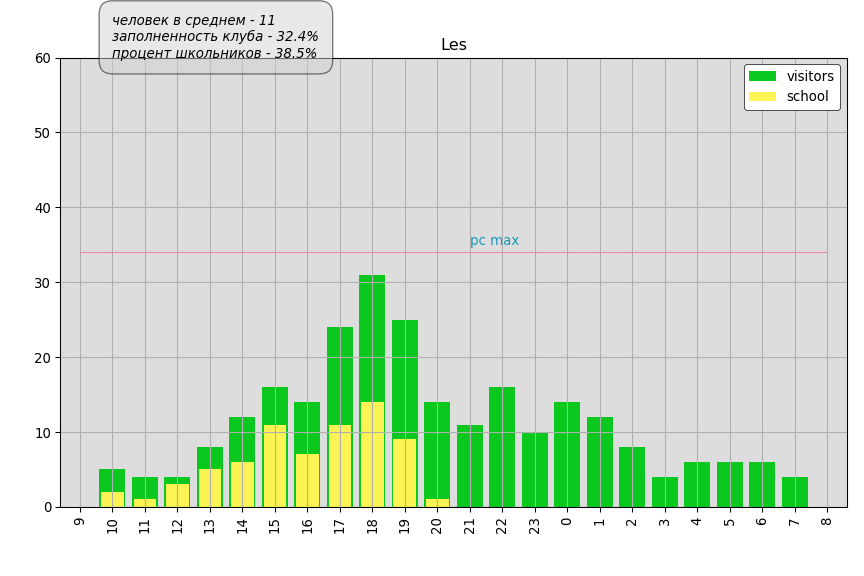
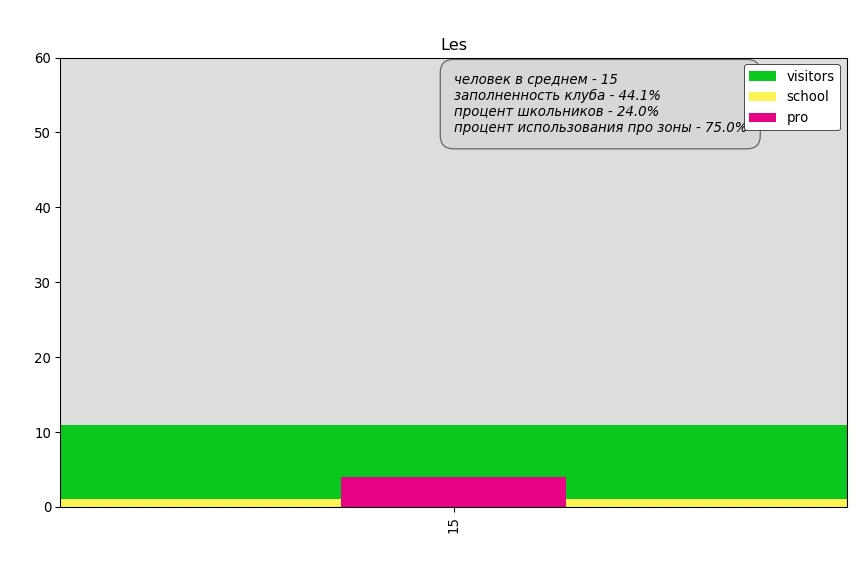
123

diff --git a/programm/gui/graph.py b/programm/gui/graph.py
@@ -3,6 +3,7 @@ import os
 import sqlite3
 import sys
 from pathlib import PurePath
+from collections import Counter
 
 import pandas
 from PyQt5 import QtWidgets, uic, QtCore, QtGui
@@ -146,15 +147,16 @@ class GraphicsWidget(QtWidgets.QWidget):
     def __init_date_widgets(self):
         yesterday_dt = datetime.datetime.now() - datetime.timedelta(
             days=1)
-        d_start = yesterday_dt.date()
-        t_start = datetime.datetime.strptime("9:00", "%H:%M").time()
+        current_dt = datetime.datetime.now()
+        # d_start = yesterday_dt.date()
+        d_start = current_dt.date()
+        t_start = datetime.datetime.strptime("15:00", "%H:%M").time()
         self.form.dt_start_edit.setDate(d_start)
         # self.form.dt_start_edit.setDate(datetime.datetime.strptime("2017-12-27", "%Y-%m-%d").date())
         self.form.time_start_edit.setTime(t_start)
 
-        current_dt = datetime.datetime.now()
         d_end = current_dt.date()
-        t_end = datetime.datetime.strptime("9:01", "%H:%M").time()
+        t_end = datetime.datetime.strptime("15:01", "%H:%M").time()
         self.form.dt_end_edit.setDate(d_end)
         # self.form.dt_end_edit.setDate(datetime.datetime.strptime("2017-12-27", "%Y-%m-%d").date())
         self.form.time_end_edit.setTime(t_end)
@@ -208,41 +210,83 @@ class GraphicsWidget(QtWidgets.QWidget):
     def update_plot(self):
         controller_data = self.get_controller_data()
         path = self.get_last_bd_path()
+        club = controller_data['active_clubs'][0]
         data_step = self.get_data(controller_data, path)
         data_table = self.get_data_table_club(controller_data, path)
-        print(data_table)
+        pro_zone = self.clubs[club]["pro_comp_list"]
+        pzl = [str(x) for x in pro_zone]
+        print(data_table, "333")
+        pro_data = data_table[data_table["ncomp"].isin(pzl)]
+
+        include_active_classes = self.clubs[club][
+            "include_active_classes"]
+
+        active_pro_zone = pro_data[
+            pro_data["class"].isin(include_active_classes)]
+
+        pro_time, pro_vis = self.get_pro_data_step(active_pro_zone)
+
+        print(active_pro_zone)
+        # записей
+        count_notes = len(active_pro_zone["data_time"].unique())
+        active = active_pro_zone.count()[0]
+        all_pro = len(pro_zone)
+        print(active , all_pro , count_notes)
+        if active:
+            print(active, all_pro, count_notes)
+            pro_proc = round((active / (all_pro * count_notes)) * 100, 1)
+        else:
+            pro_proc = 0
 
         if data_step:
-            club = controller_data['active_clubs'][0]
-
-
 
             color = self.clubs[club]["color"]
             time, load, schools, all_data = data_step
 
             school_time = self.clubs[club]["school_time"]
             # школьное время
-            st, end = self._get_date_school(controller_data["date_start"], school_time)
+            st, end = self._get_date_school(
+                controller_data["date_start"], school_time)
 
             data_school = self.get_data_school_time(st, end, all_data)
-            av_sc = self._get_average_school(data_school["visitor"], data_school["school"])
-
-            # av = self._get_average_people(load)
-
-
+            av_sc = self._get_average_school(data_school["visitor"],
+                                             data_school["school"])
 
             if load:
                 self.plot_view.plot(time, load, color=color,
                                     y_limit=(0, 50), width=0.8,
                                     name="visitors", title=club)
+
                 self.plot_view.plot(time, schools, color="#FCF355",
                                     y_limit=(0, 50), width=0.7,
                                     name="school")
+
+
+                rsvis = [0] * len(time)
+
+                for n, t in enumerate(time):
+                    if t in pro_time:
+                        i = pro_time.index(t)
+                        rsvis[n] = pro_vis[i]
+
+                self.plot_view.plot(time, rsvis, color="#E50283",
+                                    y_limit=(0, 50), width=0.2,
+                                    name="pro")
+
                 self.plot_view.set_bg("#DDDDDD")
                 self.plot_view.set_legend([club, "school"])
-                self.plot_view.add_pc_max(self.clubs[club]["max"],
-                                          len(time))
-                self.plot_view.set_grid()
+                self.plot_view.add_horizontal_line(
+                    self.clubs[club]["max"],
+                    len(time),
+                    color="#05DCF3",
+                    text="pc max")
+
+                self.plot_view.add_horizontal_line(
+                    len(self.clubs[club]["pro_comp_list"]),
+                    len(time),
+                    color="#F30793",
+                    text="pro max")
+                # self.plot_view.set_grid()
 
                 average_people = self._get_average_people(
                     all_data["visitor"])
@@ -252,26 +296,30 @@ class GraphicsWidget(QtWidgets.QWidget):
                     self.clubs[club]["max"])
                 text = """человек в среднем - {}
 заполненность клуба - {}%
-процент школьников - {}%""".format(average_people, average_load, av_sc)
+процент школьников - {}%
+процент использования про зоны - {}%""".format(average_people,
+                                              average_load,
+                                              av_sc, pro_proc)
                 self.plot_view.set_text(text)
                 self.plot_view.save_from_file()
 
                 self.plot_view.close()
                 self.bl_lb.setPixmap(QtGui.QPixmap(pth.PLOT_PATH))
-
-                # self.info_lb.add_text(
-                #     "человек в среднем - {}".format(average_people))
-
-                # self.info_lb.add_text(
-                #     "заполненность клуба - {}%".format(average_load))
-
                 self.shoot()
-                # self.info_lb.add_text("школьникв в среднем - 5")
-                # self.info_lb.add_text("заполненность клуба - 16%")
-
-
         else:
             log.debug("not data")
+
+    def _counter_to_list(self, counter):
+        times = list(counter.keys())
+        visitors = list(counter.values())
+        return times, visitors
+
+    def get_pro_data_step(self, pro_data):
+        act_h = pro_data[pro_data["mminute"] == 0]
+        cnt = Counter(act_h["mhour"].tolist())
+        times, visitors = self._counter_to_list(cnt)
+
+        return times, visitors
 
     def shoot(self):
         p = self.bl_lb.grab()
@@ -283,10 +331,12 @@ class GraphicsWidget(QtWidgets.QWidget):
         return round(s / lenght)
 
     def _get_average_school(self, visitor, school, r=0):
-        lenght = len(visitor)
         vs = sum(visitor)
         ss = sum(school)
-        r = (ss*100)/vs
+        if vs:
+            r = (ss * 100) / vs
+        else:
+            r = 0
         return round(r, 1)
 
     def _get_average_load(self, avis, max, r=0):
@@ -322,7 +372,7 @@ class GraphicsWidget(QtWidgets.QWidget):
         return "SELECT * FROM club WHERE (club = ?) AND (data_time BETWEEN ? AND ?)"
 
     def get_data_school_time(self, st, end, d):
-        # print(d[d["school"] > 0])
+        # print(d, 99999)
         return d[(d["data_time"] > st) & (d["data_time"] < end)]
 
     def _get_date_school(self, date, time):
@@ -333,8 +383,12 @@ class GraphicsWidget(QtWidgets.QWidget):
         school_time_end = datetime.datetime.strptime(
             '{}:{}'.format(*end), '%H:%M').time()
 
-        date_st = datetime.datetime.combine(date, school_time_st).strftime("%Y-%m-%d %H:%M:%S")
-        date_end = datetime.datetime.combine(date, school_time_end).strftime("%Y-%m-%d %H:%M:%S")
+        date_st = datetime.datetime.combine(date,
+                                            school_time_st).strftime(
+            "%Y-%m-%d %H:%M:%S")
+        date_end = datetime.datetime.combine(date,
+                                             school_time_end).strftime(
+            "%Y-%m-%d %H:%M:%S")
         return date_st, date_end
 
     def get_data_table_club(self, controller_data, db_path):
@@ -360,7 +414,6 @@ class GraphicsWidget(QtWidgets.QWidget):
             return None
         else:
             return all_data
-
 
     def get_data(self, controller_data, db_path):
         kp = sql_keeper.Keeper(db_path)

diff --git a/programm/gui/plot/plot.py b/programm/gui/plot/plot.py
@@ -79,19 +79,19 @@ class Graphic:
 
     def set_text(self, text):
         ymin, ymax = self.y_limit
-        plt.text(1, ymax, text, style='italic',
+        plt.text(0, ymax-10, text, style='italic',
         bbox={'facecolor':'lightgrey', 'alpha':0.5, 'pad':10, 'boxstyle':'round,pad=1'})
 
 
 
-    def add_pc_max(self, pc_max, length):
+    def add_horizontal_line(self, height, length, color="r", text=""):
 
-        if pc_max is not None:
+        if height:
             plt.plot([0, length - 1],
-                     [pc_max, pc_max],
-                     color="#E988A9", linewidth=0.8)
-            plt.annotate('pc max', xy=(length / 2, pc_max + 1),
-                         color="#1B97B9")
+                     [height, height],
+                     color=color, linewidth=0.8)
+            plt.annotate(text, xy=(length / 2, height + 1),
+                         color=color)
 
     def set_bg(self, color="lightgrey"):
         list(self.plots.values())[-1].set_facecolor(color)

diff --git a/programm/gui/test/BarGraphItem.py b/programm/gui/test/BarGraphItem.py
@@ -1,17 +1,35 @@
 
+from itertools import zip_longest
+from collections.abc import Container
+
+# class ProTimeVis(Container):
+#     def __init__(self, time, visitor):
+#         self.data = list(zip(time, visitor))
+#         self.res = []
+#
+#     def __contains__(self, n):
+#         for t, v in self.data:
+#             if t == n:
+#                 self.res.append(v)
+#                 return True
+#             else:
+#                 self.res.append(None)
+#                 return False
+
+time = [9, 10, 11, 12, 13]
+pro_time = [10, 13]
+
+pro_vis =[1, 3]
+rs = [0, 1, 0, 0, 3]
+
+rst = [0]* len(time)
+
+for n, t in enumerate(time):
+    if t in pro_time:
+        i = pro_time.index(t)
+        rst[n] = pro_vis[i]
 
 
-import pandas as pd
+print(rst)
 
 
-d = dict(vis=[1,2,3,4], load=[7,8,9,6], rrr=['a', 'b', 'c', 'd'])
-
-tab = pd.DataFrame(d)
-print(tab)
-print("----------------")
-print(
-    tab[
-        (tab["load"]>7) &
-        (tab["rrr"]=="b")
-    ]
-)

diff --git a/programm/sql/sql_keeper.py b/programm/sql/sql_keeper.py
@@ -6,7 +6,7 @@ class Keeper():
         self.path = path
 
     def open_connect(self):
-        print(self.path, "path")
+        # print(self.path, "path")
         self.connect = sqlite3.connect(self.path)
 
     def open_cursor(self):
@@ -27,6 +27,7 @@ class Keeper():
         query = "SELECT * FROM club_tab WHERE (club = ?) AND (data_time BETWEEN ? AND ?)"
         df = pd.read_sql_query(query, self.connect, params=(club, start, end))
         if step:
+            print(9999999999999999999999)
             res = df[df["mminute"]==0]
         else:
             res = df
